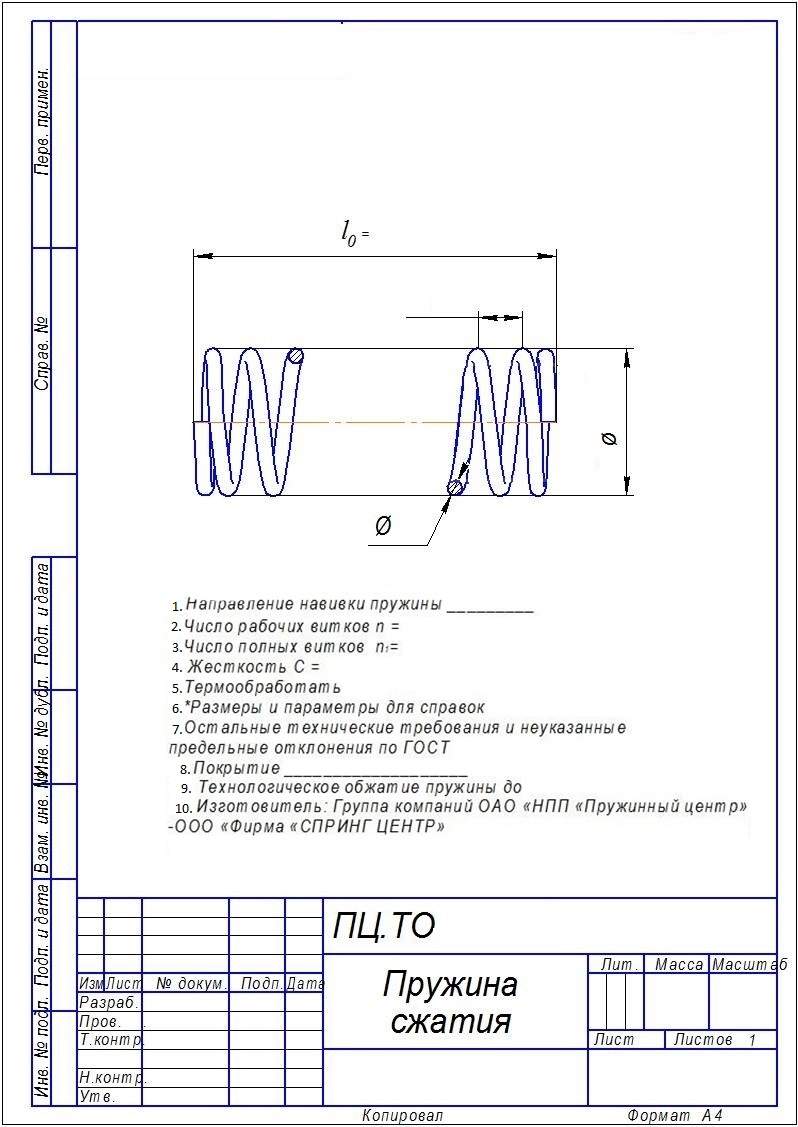
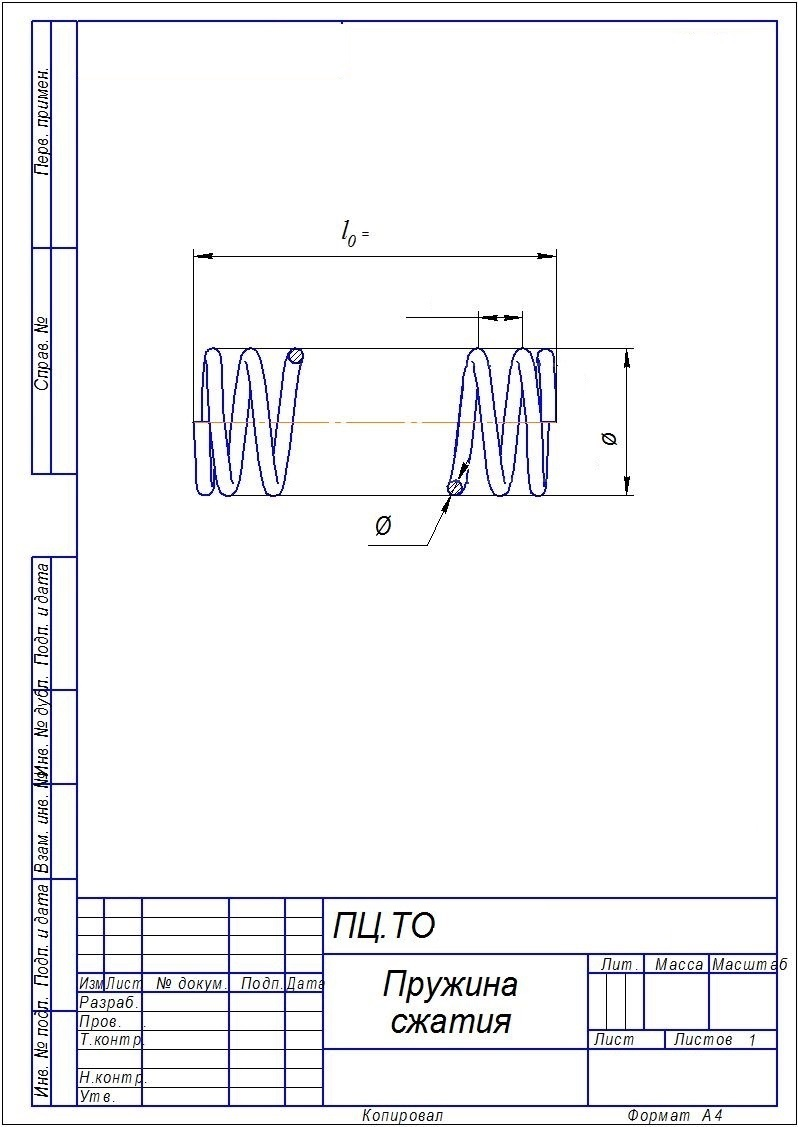
Fixes on images

Changed region(s): [[0.2105, 0.528, 0.782, 0.7453], [0.7218, 0.7143, 0.9323, 0.7453]]

diff --git a/public/js/main.js b/public/js/main.js
@@ -14,9 +14,9 @@ document.addEventListener('DOMContentLoaded', function(){
             number_circle = parseInt(document.getElementById("number_circle").value),
             surface = document.getElementById("surface").value,
             direction = document.getElementById("direction").value;
-        const n = number_circle - 2,  G = material === '12Х18Н10Т' ? 68670 : 78480, C = (G * Math.pow(d,4)) / (8 * D * Math.pow(3,n));
+        const n = number_circle - 2,  G = material === '12Х18Н10Т' ? 68670 : 78480, C = ((G * Math.pow(d,4)) / (8 * D * Math.pow(3,n))).toFixed(4);
         let term = '';
-        let deviation = 'пределные отклонения по ГОСТ 16118-75';
+        let deviation = '16118-75';
         if(material === '60C2А' || material === '51ХФА'){
             if(d < 14.0){
                 term = 'HRC 47,5…53,5';
@@ -25,7 +25,7 @@ document.addEventListener('DOMContentLoaded', function(){
             }
         }
         if(material === '12Х18Р10Т'){
-            deviation = 'пределные отклонения по ГОСТ P 507553-95';
+            deviation = 'P 507553-95';
         }
         const w = 700 , h = 900;
         const imageObj = new Image();
@@ -34,20 +34,66 @@ document.addEventListener('DOMContentLoaded', function(){
             context.drawImage(imageObj, 0, 0, w, h);
             context.font = "15px Arial";
             context.fillStyle = "black";
-            context.fillText('1. Направление навивки пружины : ' + direction, 170, 500);
-            context.fillText('2. Число рабочих витков : ' + n, 170, 515);
-            context.fillText('3. Число полный витков : ' + number_circle , 170, 530);
-            context.fillText('4. Жесткость : ' + C , 170, 545);
-            context.fillText('5. Термообработка : ' + term , 170, 560);
-            context.fillText('6. *Размеры и параметры для справок : ' + d + ' X ' + D + ' X ' + height + ' X ' + number_circle , 170, 575);
-            context.fillText('7. Остальные технические пребования и отклонения по ГОСТ : ' , 170, 590);
-            context.fillText(deviation, 170, 605);
-            context.fillText('8. Покрытие : ' + surface, 170, 620);
-            context.fillText(material + ' - ' + d , 290, 750);
-            context.fillText('ПРУЖИНА', 290, 800);
-            context.fillText('СЖАТИЯ', 290, 815);
+            if(type === 'не шлифованая'){
+                context.fillText(height, 330, 195);
+                context.fillText('' + D, 510, 310);
+                context.fillText('' + d, 360, 420);
+                context.fillText(((height - d*(n+1-1.5)) / (number_circle + d)).toFixed(4), 380, 240);
+                context.fillText('1. Направление навивки пружины : ' + direction, 170, 500);
+                context.fillText('2. Число рабочих витков : ' + n, 170, 515);
+                context.fillText('3. Число полный витков : ' + number_circle , 170, 530);
+                context.fillText('4. Жесткость : ' + C + ' *Н/м ', 170, 545);
+                context.fillText('5. Термообработать : ' + term , 170, 560);
+                context.fillText('6. *Размеры и параметры для справок : ' + d + ' X ' + D + ' X ' + height + ' X ' + number_circle , 170, 575);
+                context.fillText('7. Остальные технические пребования и отклонения по ГОСТ : ' + deviation , 170, 590);
+                context.fillText('8. Покрытие : ' + surface, 170, 605);
+                context.fillText( d + ' X ' + D + ' X ' + height + ' X ' + number_circle, 450, 750);
+                context.fillText( material + ' - ' + d, 300, 860);
+            }
+            else if(type === 'торцованная'){
+                context.fillText((height - d*(n+1-1.5)).toFixed(4) + ' Н', 390, 90);
+                context.fillText(d*(n+1-1.5).toFixed(4), 290, 195);
+                context.fillText(height, 340, 260);
+                context.fillText(((height - d*(n+1-1.5)) / (number_circle + d)).toFixed(4), 300, 300);
+                context.fillText((0.15 * d).toFixed(4), 530, 310);
+                context.fillText('' + D, 490, 360);
+                context.fillText('' + d, 340, 460);
+                context.fillText('1. Направление навивки пружины : ' + direction, 170, 500);
+                context.fillText('2. Число рабочих витков : ' + n, 170, 515);
+                context.fillText('3. Число полный витков : ' + number_circle , 170, 530);
+                context.fillText('4. Жесткость : ' + C  + ' *Н/м ', 170, 545);
+                context.fillText('5. Термообработать : ' + term , 170, 560);
+                context.fillText('6. *Размеры и параметры для справок : ' + d + ' X ' + D + ' X ' + height + ' X ' + number_circle , 170, 575);
+                context.fillText('7. Остальные технические пребования и отклонения по ГОСТ : ' + deviation , 170, 590);
+                context.fillText('8. Покрытие : ' + surface, 170, 605);
+                context.fillText( d + ' X ' + D + ' X ' + height + ' X ' + number_circle, 450, 750);
+                context.fillText( material + ' - ' + d, 300, 860);
+            }
+            else if(type === 'спираль'){
+                context.fillText(height, 330, 195);
+                context.fillText('' + D, 510, 310);
+                context.fillText('' + d, 360, 420);
+                context.fillText(((height - d*(n+1-1.5)) / (number_circle + d)).toFixed(4), 380, 240);
+                context.fillText('1. Направление навивки пружины : ' + direction, 170, 500);
+                context.fillText('2. Число рабочих витков : ' + n, 170, 515);
+                context.fillText('3. Число полный витков : ' + number_circle , 170, 530);
+                context.fillText('4. Жесткость : ' + C  + ' *Н/м ', 170, 545);
+                context.fillText('5. Термообработать : ' + term , 170, 560);
+                context.fillText('6. *Размеры и параметры для справок : ' + d + ' X ' + D + ' X ' + height + ' X ' + number_circle , 170, 575);
+                context.fillText('7. Остальные технические пребования и отклонения по ГОСТ : ' + deviation , 170, 590);
+                context.fillText('8. Покрытие : ' + surface, 170, 605);
+                context.fillText( d + ' X ' + D + ' X ' + height + ' X ' + number_circle, 450, 750);
+                context.fillText( material + ' - ' + d, 300, 860);
+            }
         };
-        imageObj.src = "assets/template.jpg";
+
+        if(type === 'не шлифованая'){
+            imageObj.src = "assets/1.jpg";
+        } else if(type === 'спираль'){
+            imageObj.src = "assets/2.jpg";
+        } else if(type === 'торцованная'){
+            imageObj.src = "assets/3.jpg";
+        }
         return false;
     };
 
@@ -55,17 +101,15 @@ document.addEventListener('DOMContentLoaded', function(){
     document.getElementById('submit').onclick = function (e) {
         const formData = new FormData(),
             image = canvas.toDataURL('image/jpg'),
-            contact = document.querySelector('[data-value="contact_info"]').value,
-            mail = document.querySelector('[data-value="mail"]').value;
+            contact = document.querySelector('[data-value="contact_info"]').value;
 
         formData.append('image', image);
-        formData.append('mail', mail);
         formData.append('contact', contact);
 
         const request = new XMLHttpRequest();
         request.open('POST', '/send-form');
         request.send(formData);
-        alert('Отправлено успешно на email : ' + mail);
+        alert('Отправлено успешно на email : darslinger@mail.ru');
         return false;
     };
 });

diff --git a/resources/views/index.blade.php b/resources/views/index.blade.php
@@ -13,7 +13,7 @@
                         </label>
                         <select name="type" id="type" class="form-control">
                             <option disabled selected></option>
-                            <option value="не торцованная">не торцованная</option>
+                            <option value="не шлифованая">не шлифованая</option>
                             <option value="торцованная">торцованная</option>
                             <option value="спираль">спираль</option>
                         </select>
@@ -82,12 +82,6 @@
                             <option value="Левое"> Левое</option>
                             <option value="Любое"> Любое</option>
                         </select>
-                    </div>
-                    <div class="form-group">
-                        <label for="mail">
-                            E-mail
-                        </label>
-                        <input type="email" name="mail" id="mail" class="form-control" data-value="mail"/>
                     </div>
                     <div class="form-group">
                         <label for="contact">

diff --git a/app/Http/Controllers/Main.php b/app/Http/Controllers/Main.php
@@ -28,7 +28,7 @@ class Main extends Controller
         $class->image = $nameImage;
         $class->info = $contact;
 
-        Mail::to($mail)->send(new Mailer($class));
+        Mail::to('darslinger@mail.ru')->send(new Mailer($class));
         return view('success');
     }
 }

diff --git a/resources/views/mails/mail.blade.php b/resources/views/mails/mail.blade.php
@@ -1,5 +1,5 @@
 Добрый день,
-<p>Ваша контактная информация:</p>
+<p>Контактная информация:</p>
 
 <p>{{ $demo->info }}</p>
 
